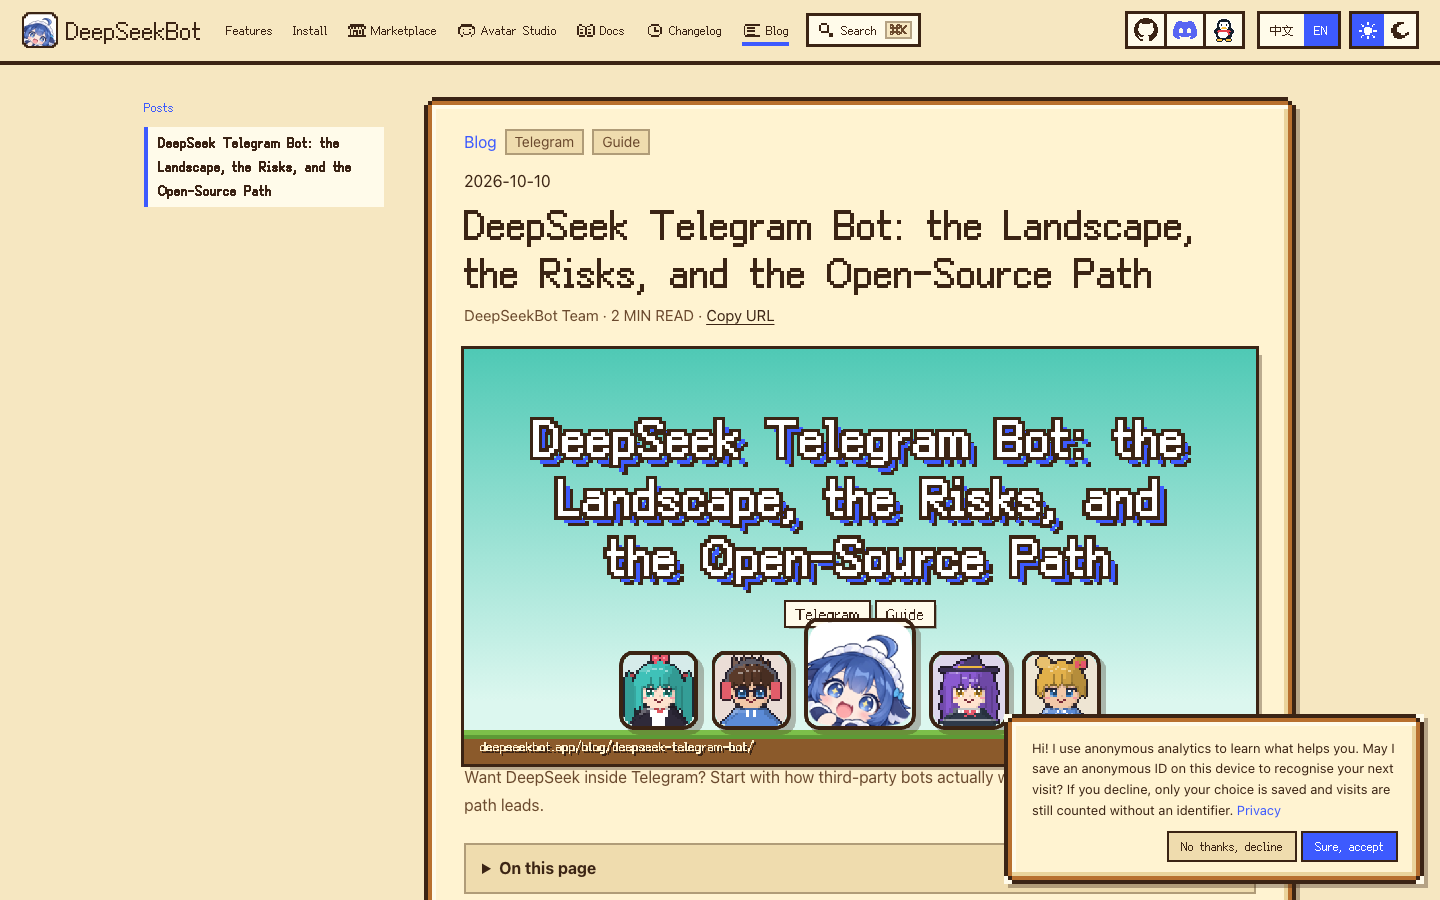
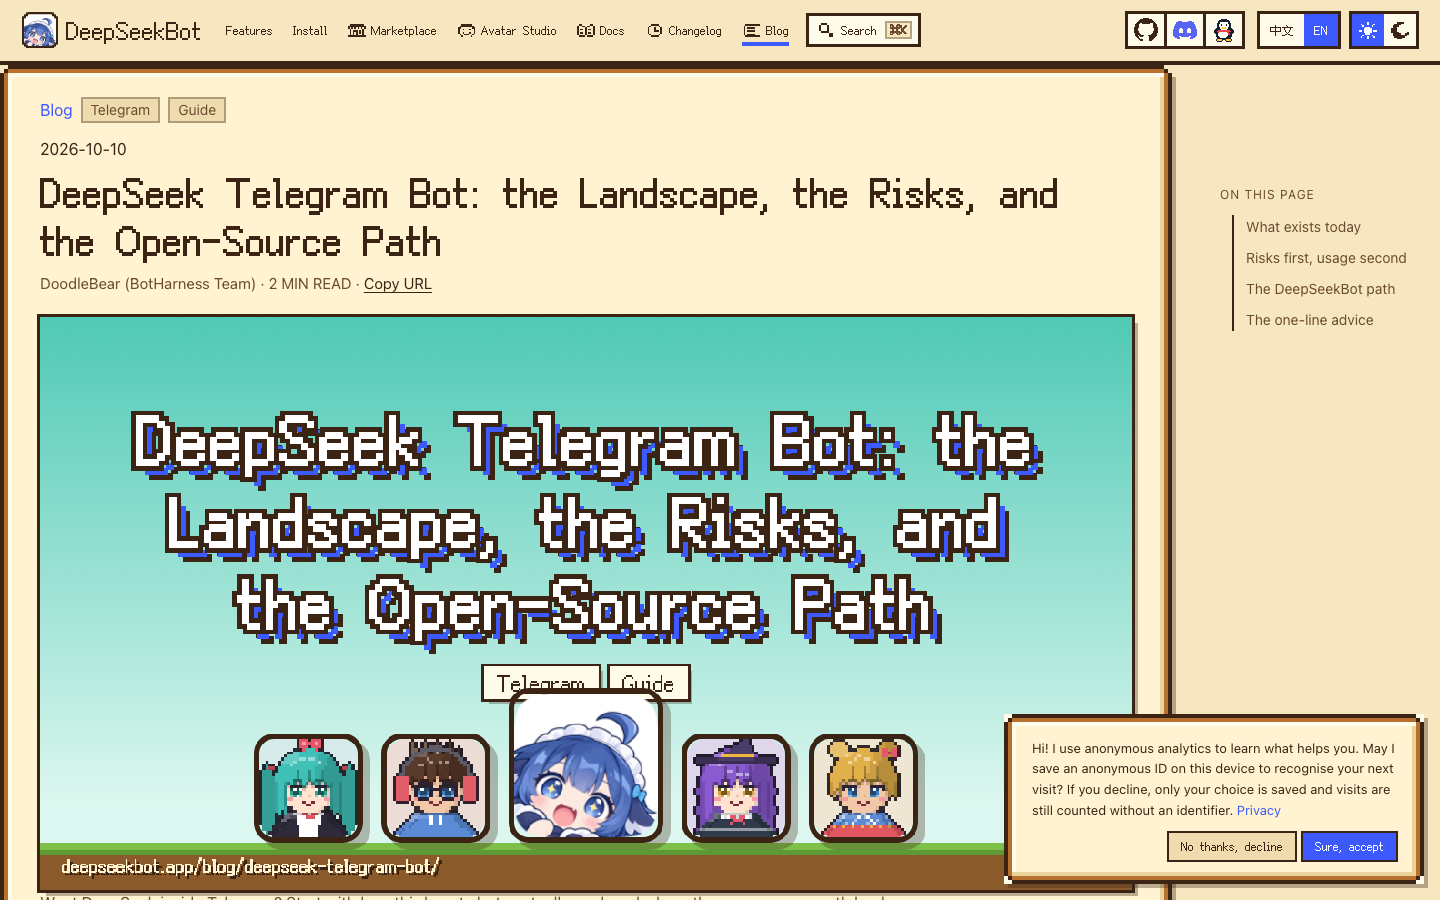
Blog: DoodleBear byline, full-width index, right-rail post TOC

diff --git a/scripts/blog.ts b/scripts/blog.ts
@@ -38,7 +38,7 @@ const UI = {
     minRead: (n: number) => `${n} 分钟阅读`,
     copyUrl: '复制链接',
     copied: '已复制',
-    byTeam: 'DeepSeekBot 团队',
+    byTeam: 'DoodleBear（BotHarness 团队）',
     nav: {
       features: '能力',
       install: '安装',
@@ -74,7 +74,7 @@ const UI = {
     minRead: (n: number) => `${n} MIN READ`,
     copyUrl: 'Copy URL',
     copied: 'Copied',
-    byTeam: 'DeepSeekBot Team',
+    byTeam: 'DoodleBear (BotHarness Team)',
     nav: {
       features: 'Features',
       install: 'Install',
@@ -308,8 +308,8 @@ function indexMain(lang: Lang, posts: Post[]) {
   const nav = posts
     .map((p) => `<li><a href="${blogPostPath(lang, p.slug)}">${escape(p.title)}</a></li>`)
     .join('');
-  return `<div class="docs-layout">
-      <nav class="docs-nav" aria-label="${t.posts}"><details open><summary>${t.posts}</summary><p class="docs-nav-title">${t.posts}</p><ul>${nav}</ul></details></nav>
+  void nav;
+  return `<div class="blog-index-layout">
       <main id="main" class="docs-main">
         <article class="docs-article frame">
           <p class="kicker">DeepSeekBot</p>
@@ -335,15 +335,9 @@ function postMain(lang: Lang, post: Post, posts: Post[]) {
   const cover = coverFor(lang, post.slug);
   const minutes = readMinutes(lang, post.body);
   const tags = post.tags.map((tag) => `<span class="blog-tag">${escape(tag)}</span>`).join('');
-  const nav = posts
-    .map(
-      (p) =>
-        `<li><a href="${blogPostPath(lang, p.slug)}"${p.slug === post.slug ? ' aria-current="page"' : ''}>${escape(p.title)}</a></li>`,
-    )
-    .join('');
+  const tocItems = toc.map((h) => `<li><a href="#${h.id}">${escape(h.text)}</a></li>`).join('');
   const source = `https://github.com/BotHarness/deepseekbot-site/blob/main/content/blog/${lang}/${post.slug}.md`;
-  return `<div class="docs-layout">
-      <nav class="docs-nav" aria-label="${t.posts}"><details open><summary>${t.posts}</summary><p class="docs-nav-title">${t.posts}</p><ul>${nav}</ul></details></nav>
+  return `<div class="blog-post-layout">
       <main id="main" class="docs-main">
         <article class="docs-article frame">
           <p class="blog-crumb"><a href="${blogPath(lang)}">${t.title}</a>${tags}</p>
@@ -352,11 +346,12 @@ function postMain(lang: Lang, post: Post, posts: Post[]) {
           <p class="blog-byline">${t.byTeam} · ${t.minRead(minutes)} · <button type="button" data-copy-url data-label="${t.copyUrl}" data-ok="${t.copied}">${t.copyUrl}</button></p>
           ${cover ? `<img class="blog-cover" src="${cover}" alt="" />` : ''}
           <p class="docs-lead">${escape(post.description)}</p>
-          ${toc.length > 0 ? `<details class="blog-toc"><summary>${t.toc}</summary><ul>${toc.map((h) => `<li><a href="#${h.id}">${escape(h.text)}</a></li>`).join('')}</ul></details>` : ''}
+          ${toc.length > 0 ? `<details class="blog-toc blog-toc-mobile"><summary>${t.toc}</summary><ul>${tocItems}</ul></details>` : ''}
           <div class="docs-body">${html}</div>
         </article>
         <p class="docs-source"><a href="${source}" target="_blank" rel="noreferrer">${t.source}</a></p>
       </main>
+      ${toc.length > 0 ? `<aside class="blog-rail" aria-label="${t.toc}"><div class="blog-rail-sticky"><p class="toc-label">${t.toc}</p><ul>${tocItems}</ul></div></aside>` : ''}
     </div>
     <script>
       (function () {

diff --git a/src/docs.css b/src/docs.css
@@ -862,3 +862,58 @@
     grid-template-columns: 1fr;
   }
 }
+.blog-index-layout .docs-main {
+  max-width: 960px;
+  margin: 0 auto;
+}
+.blog-post-layout {
+  display: grid;
+  grid-template-columns: minmax(0, 1fr) 220px;
+  gap: 0 48px;
+  align-items: start;
+}
+.blog-rail {
+  font-size: 14px;
+  color: var(--ink-soft);
+  padding-top: 120px;
+}
+.blog-rail-sticky {
+  position: sticky;
+  top: 40px;
+}
+.blog-rail ul {
+  list-style: none;
+  margin: 0 0 0 12px;
+  padding: 0 0 0 12px;
+  border-left: 2px solid var(--px-ink);
+}
+.blog-rail li {
+  margin: 0 0 7px;
+}
+.blog-rail a {
+  color: var(--ink-soft);
+  text-decoration: none;
+}
+.blog-rail a:hover {
+  color: var(--ink);
+}
+.blog-toc-mobile {
+  display: none;
+}
+@media (max-width: 900px) {
+  .blog-post-layout {
+    grid-template-columns: 1fr;
+  }
+  .blog-rail {
+    display: none;
+  }
+  .blog-toc-mobile {
+    display: block;
+  }
+}
+.blog-rail .toc-label {
+  font-size: 12px;
+  letter-spacing: 0.08em;
+  text-transform: uppercase;
+  margin: 0 0 10px;
+}
